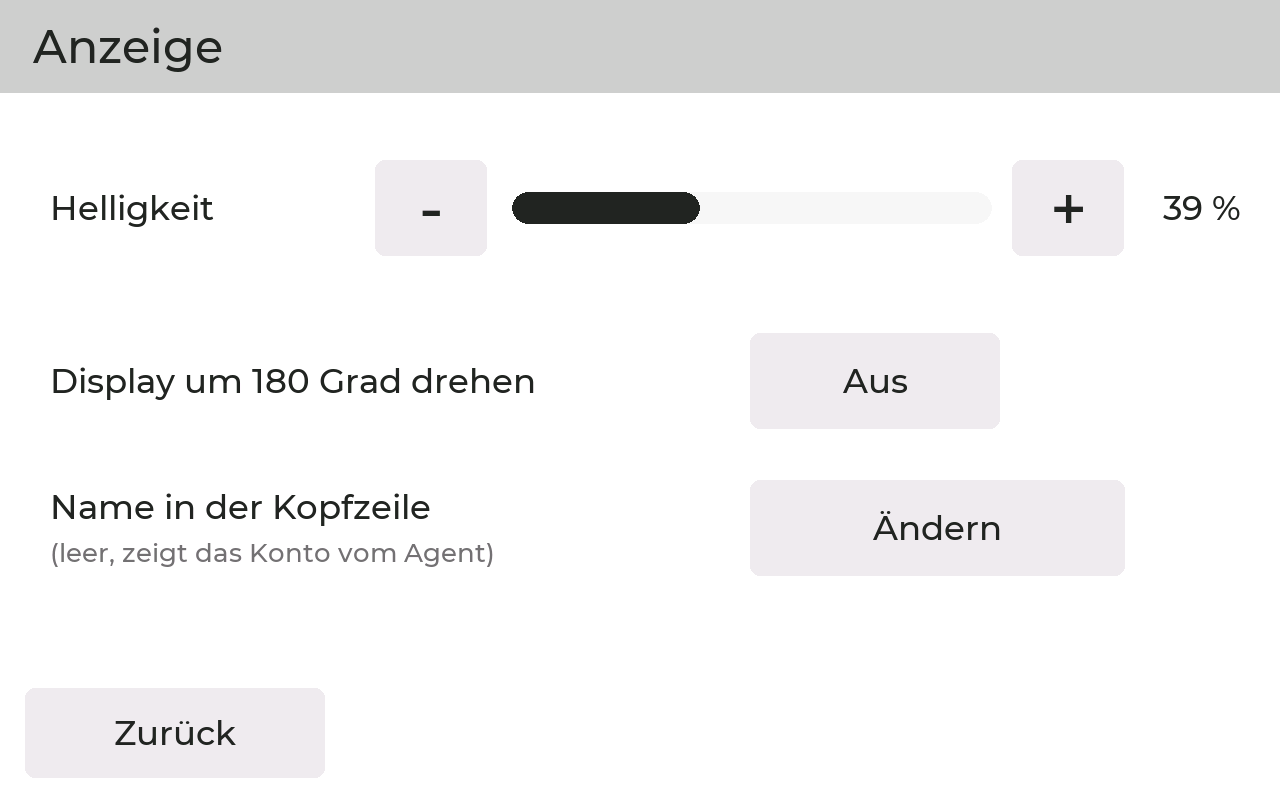
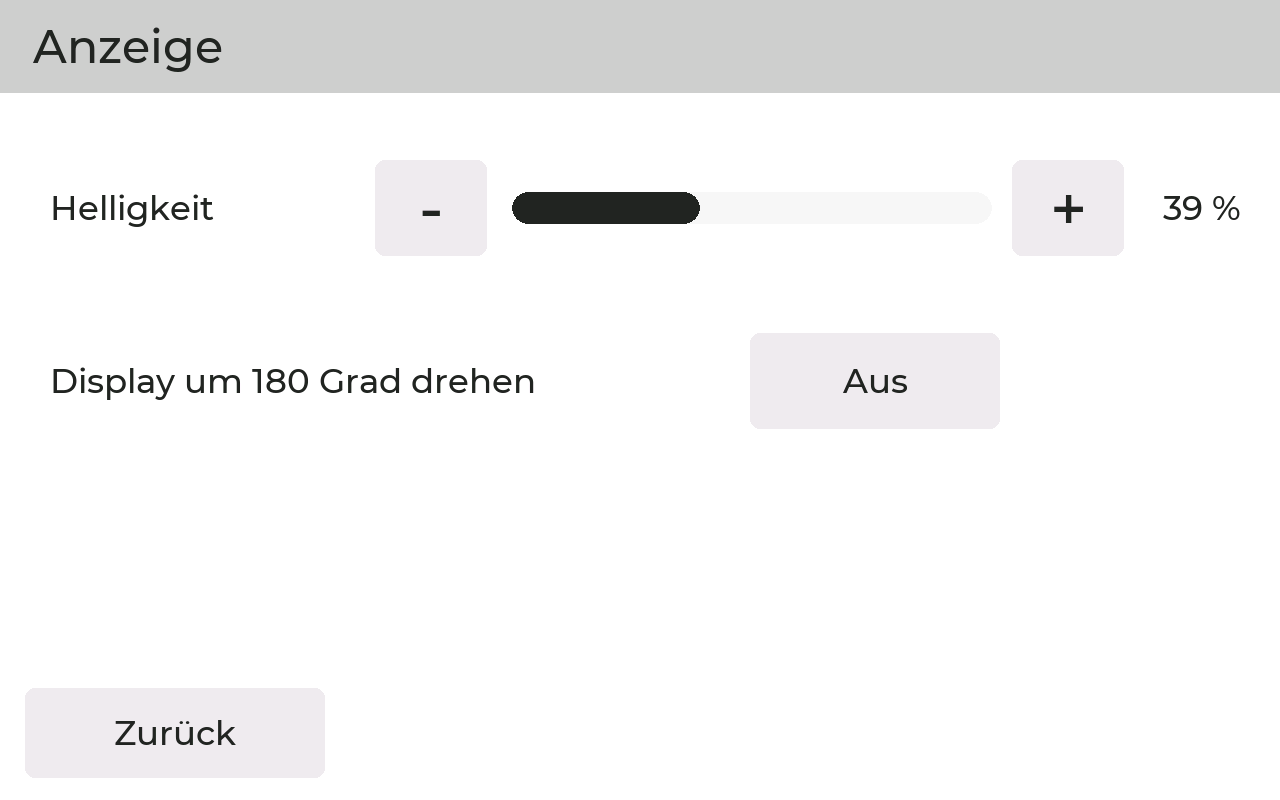
Name in der Kopfzeile unter Microsoft 365, sicheres Flashen
Die Einstellung "Name in der Kopfzeile" gehoert zum Konto und steht im
Menue jetzt unter Microsoft 365 statt unter Anzeige. Doku und
Bildschirmfotos (DE/EN) nachgefuehrt.

USB-Befehl NAME ersetzt den angezeigten Namen bis zum Neustart, ohne
ihn zu speichern. screenshot.py setzt ihn immer, damit auf Bildern nie
ein echter Name steht.

tools/flash.py prueft vor dem Flashen die USB-Seriennummer des
angeschlossenen Displays und flasht nur die passende Variante. Die
falsche Variante startet auf dem anderen Panel nicht.

Changed region(s): [[0.0312, 0.6875, 0.375, 0.7188], [0.0312, 0.625, 0.3438, 0.6562], [0.6875, 0.625, 0.7812, 0.6875]]

diff --git a/firmware/src/menu.cpp b/firmware/src/menu.cpp
@@ -146,14 +146,6 @@ static void drawLang() {
 // ------------------------------------------------------------ Anzeige
 static const Rect R_BR_MINUS = { ux(300), uy(120), ux(90), uy(72) }, R_BR_PLUS = { ux(810), uy(120), ux(90), uy(72) };
 static const Rect R_FLIP = { ux(600), uy(250), ux(200), uy(72) };
-static const Rect R_NAME = { ux(600), uy(360), ux(300), uy(72) };   // Name in der Kopfzeile aendern
-static char nameWork[48];
-
-static void onNameDone(bool ok) {
-  if (!ok) return;
-  ownerName = nameWork;
-  displayApply(true);                            // speichert und zeichnet neu
-}
 static const int BAR_X = ux(410), BAR_W = ux(384);
 
 static void drawBrightness() {
@@ -174,10 +166,6 @@ static void drawDisplay() {
   drawBrightness();
   label(TR("Display um 180 Grad drehen", "Rotate display 180 degrees"), R_FLIP.cy());
   toggle(R_FLIP, flip);
-  label(TR("Name in der Kopfzeile", "Name in the header"), R_NAME.cy() - uy(16));
-  txt(ownerName.length() ? ownerName.c_str() : TR("(leer, zeigt das Konto vom Agent)", "(empty, shows the agent's account)"),
-      ux(40), R_NAME.cy() + uy(18), 20, pDim(), pBg(), middle_left);
-  button(R_NAME, TR("\xC3\x84ndern", "Change"), B_NORMAL);
   button(R_BACK, TR("Zur\xC3\xBC" "ck", "Back"), B_NORMAL);
 }
 
@@ -275,16 +263,31 @@ static void drawWifi() {
 
 // ------------------------------------------------------------ Microsoft 365
 static const char* o365Msg = "";
+// Name in der Kopfzeile (wessen Kalender das Display zeigt), gehoert zum Konto (Oliver, 31.10.2026)
+static const Rect R_NAME = { SCR_W - ux(240), uy(290) - uy(34), ux(220), uy(68) };
+static char nameWork[48];
+
+static void onNameDone(bool ok) {
+  if (!ok) return;
+  ownerName = nameWork;
+  displayApply(true);                            // speichert und zeichnet neu
+}
 
 static void drawO365() {
   header("Microsoft 365");
   kv(TR("Konto", "Account"), account[0] ? account : TR("keins angemeldet", "none signed in"), uy(120));
   kv(TR("Kalender schreiben", "Write calendar"), canWrite ? TR("ja (Buchung m\xC3\xB6glich)", "yes (booking possible)") : TR("nein", "no"), uy(175));
   kv(TR("Verbindung", "Connection"), linked ? TR("Agent verbunden", "agent connected") : TR("kein Agent", "no agent"), uy(230));
+  txt(TR("Name oben", "Name in header"), ux(60), R_NAME.cy(), 26, pDim(), pBg(), middle_left);
+  const char* nm = *ownerShown() ? ownerShown() : TR("(leer, zeigt das Konto)", "(empty, shows the account)");
+  lcd.setFont(smooth(26));
+  txt(nm, ux(380), R_NAME.cy(), lcd.textWidth(nm) > R_NAME.x - ux(400) ? 20 : 26,
+      *ownerShown() ? pInk() : pDim(), pBg(), middle_left);
+  button(R_NAME, TR("\xC3\x84ndern", "Change"), B_NORMAL);
   txt(TR("Die Anmeldung l\xC3\xA4uft \xC3\xBC" "ber den Agenten, Code und Adresse erscheinen hier.",
          "Sign-in runs through the agent, code and address appear here."),
-      SCR_W / 2, uy(320), 20, pDim(), pBg());
-  if (*o365Msg) txt(o365Msg, SCR_W / 2, uy(370), 26, pInk(), pBg());
+      SCR_W / 2, uy(370), 20, pDim(), pBg());
+  if (*o365Msg) txt(o365Msg, SCR_W / 2, uy(420), 26, pInk(), pBg());
   button(R_BACK, TR("Zur\xC3\xBC" "ck", "Back"), B_NORMAL);
   button(R_RIGHT, TR("Neues Konto verbinden", "Connect new account"), !linked ? B_DISABLED : B_PRIMARY, 20);
 }
@@ -441,12 +444,6 @@ static void tapDisplay(int x, int y) {
     drawBrightness();
     return;
   }
-  if (R_NAME.in(x, y)) {                         // Menue schliessen, Tastatur der Buchung nutzen
-    strncpy(nameWork, ownerName.c_str(), sizeof(nameWork) - 1); nameWork[sizeof(nameWork) - 1] = '\0';
-    menuClose();
-    textEntryOpen(TR("Name in der Kopfzeile", "Name in the header"), nameWork, 41, onNameDone);   // 40 Zeichen wie im Webinterface
-    return;
-  }
   if (R_FLIP.in(x, y)) {
     flip = !flip;
     board_set_rotation(flip);
@@ -514,6 +511,12 @@ static void tapWifi(int x, int y) {
 
 static void tapO365(int x, int y) {
   if (R_BACK.in(x, y)) { go(M_MAIN); return; }
+  if (R_NAME.in(x, y)) {                         // Menue schliessen, Tastatur der Buchung nutzen
+    strncpy(nameWork, ownerName.c_str(), sizeof(nameWork) - 1); nameWork[sizeof(nameWork) - 1] = '\0';
+    menuClose();
+    textEntryOpen(TR("Name in der Kopfzeile", "Name in the header"), nameWork, 41, onNameDone);   // 40 Zeichen wie im Webinterface
+    return;
+  }
   if (!R_RIGHT.in(x, y)) return;
   if (!linked) { o365Msg = TR("Kein Agent verbunden.", "No agent connected."); drawO365(); return; }
   menuClose();                                   // Anmeldebildschirm zeigt Code und Adresse

diff --git a/tools/flash.py b/tools/flash.py
@@ -1,0 +1,87 @@
+#!/usr/bin/env python3
+"""
+flash.py - Firmware nur auf das richtige Display flashen
+
+  agent/.venv/bin/python tools/flash.py 7      7"-Variante  (env guition-p4)
+  agent/.venv/bin/python tools/flash.py 10     10"-Variante (env guition-p4-10)
+
+Liest unmittelbar vor dem Flashen die USB-Seriennummer des angeschlossenen Displays und
+schlaegt sie in ~/.config/tally32/displays.json nach, z. B.
+
+  {"12:34:56:78:9A:BC": "7", "AB:CD:EF:01:23:45": "10"}
+
+Passt das Display nicht zur gewuenschten Variante, ist es unbekannt oder haengen mehrere
+Displays am Rechner, wird nicht geflasht. Die falsche Variante startet auf dem anderen
+Panel nicht und das Display ist nur noch ueber den BOOT-Download-Modus erreichbar.
+"""
+import json
+import os
+import subprocess
+import sys
+import time
+
+import serial
+import serial.tools.list_ports
+
+ENVS = {"7": "guition-p4", "10": "guition-p4-10"}
+MAP = os.path.expanduser("~/.config/tally32/displays.json")
+PIO = os.path.expanduser("~/.pio-venv/bin/pio")
+FW = os.path.join(os.path.dirname(os.path.abspath(__file__)), "..", "firmware")
+ESPRESSIF_VID = 0x303A
+
+
+def displays():
+    return [p for p in serial.tools.list_ports.comports() if p.vid == ESPRESSIF_VID]
+
+
+def main():
+    if len(sys.argv) != 2 or sys.argv[1] not in ENVS:
+        sys.exit(__doc__)
+    want = sys.argv[1]
+    try:
+        known = {k.upper(): v for k, v in json.load(open(MAP)).items()}
+    except (OSError, ValueError) as e:
+        sys.exit(f"Zuordnung {MAP} fehlt oder ist ungueltig ({e}).")
+
+    found = displays()
+    if len(found) != 1:
+        sys.exit(f"Genau ein Display anschliessen (gefunden: {len(found)}). Nicht geflasht.")
+    port = found[0]
+    sn = (port.serial_number or "").upper()
+    have = known.get(sn)
+    if have is None:
+        sys.exit(f"Unbekanntes Display {sn} an {port.device}. In {MAP} eintragen. Nicht geflasht.")
+    if have != want:
+        sys.exit(f"An {port.device} haengt das {have}\"-Display ({sn}), gewuenscht ist {want}\". Nicht geflasht.")
+
+    print(f"{want}\"-Display {sn} an {port.device}, flashe {ENVS[want]} ...", flush=True)
+    r = subprocess.run([PIO, "run", "-d", FW, "-e", ENVS[want], "-t", "upload", "--upload-port", port.device])
+    if r.returncode:
+        sys.exit("Flashen fehlgeschlagen.")
+
+    # Danach muss dasselbe Display mit der Firmware antworten
+    deadline = time.time() + 30
+    while time.time() < deadline:
+        now = [p for p in displays() if (p.serial_number or "").upper() == sn]
+        if now:
+            try:
+                s = serial.Serial()
+                s.port, s.baudrate, s.timeout, s.dtr, s.rts = now[0].device, 115200, 1, False, False
+                s.open()
+                time.sleep(4)                     # Oeffnen startet das Display neu
+                s.reset_input_buffer()
+                s.write(b"HELLO\n")
+                t = time.time()
+                while time.time() - t < 3:
+                    if s.readline().startswith(b"TALLY32"):
+                        print("OK: Display laeuft mit der neuen Firmware.")
+                        return
+                s.close()
+            except Exception:  # noqa: BLE001 - Display meldet sich beim Neustart kurz ab
+                pass
+        time.sleep(2)
+    sys.exit("Display antwortet nach dem Flashen nicht. Am Geraet pruefen.")
+
+
+if __name__ == "__main__":
+    main()

diff --git a/firmware/src/main.cpp b/firmware/src/main.cpp
@@ -340,6 +340,10 @@ static void drawConnIcon(bool on, int xRight, int y0) {
 // bis zum Neustart. Ein unmoegliches Datum kennzeichnet Bilder als Demo-Bilder.
 static char shotDate[12] = "";
 const char* shotDateText() { return shotDate; }
+// Ebenso der Name (USB "NAME jasmin.muster@mail.ch"): nur im Speicher, nie gespeichert, damit
+// auf Bildschirmfotos kein echter Name steht.
+static char shotName[48] = "";
+const char* ownerShown() { return shotName[0] ? shotName : ownerName.c_str(); }
 
 // Kopfzeile: Logo, Datum, Name und Uhrzeit
 static void drawHeader() {
@@ -354,7 +358,7 @@ static void drawHeader() {
   lcd.setFont(smooth(26));
   const int tx = SCR_W - ux(24), tw = lcd.textWidth("00:00");
   sTxt(cur.clock[0] ? cur.clock : "--:--", tx, BAN_H / 2, 26, fg, bg, middle_right);
-  const char* name = ownerName.length() ? ownerName.c_str() : account;
+  const char* name = *ownerShown() ? ownerShown() : account;
   if (*name) {
     const int nx = SPLIT + ux(90), w = tx - tw - ux(36) - nx;
     sTxt(name, nx, BAN_H / 2, fitSize(name, w, 26, 20), fg, bg, middle_left);
@@ -745,6 +749,12 @@ static void handleLine(char* line) {
   }
   if (strncmp(line, "DATE ", 5) == 0) {          // Diagnose: Datum fuer Bildschirmfotos ("DATE -" = echtes)
     field(shotDate, sizeof(shotDate), line + 5);
+    uiVersion++;
+    Serial.println("OK");
+    return;
+  }
+  if (strncmp(line, "NAME ", 5) == 0) {          // Diagnose: Name fuer Bildschirmfotos ("NAME -" = echter)
+    field(shotName, sizeof(shotName), line + 5);
     uiVersion++;
     Serial.println("OK");
     return;

diff --git a/tools/screenshot.py b/tools/screenshot.py
@@ -113,6 +113,7 @@ def demo(s, outdir):
     os.makedirs(outdir, exist_ok=True)
     s.write(f"DATE {DATE}\n".encode())
     s.write(f"AC {NAME}\n".encode())           # Kopfzeile nicht leer, solange kein Name gesetzt ist
+    s.write(f"NAME {NAME}\n".encode())         # ersetzt einen gesetzten echten Namen bis zum Neustart
     s.write(b"SET demo 1\n")
     time.sleep(0.5)
     seen, last, n, t0 = set(), None, 0, time.time()

diff --git a/firmware/src/state.h b/firmware/src/state.h
@@ -40,6 +40,7 @@ extern uint8_t brightness;
 extern bool flip;
 extern uint8_t uiLang;           // Sprache der Oberflaeche: 0 Deutsch, 1 English (NVS "lang")
 extern String ownerName;        // Name der Person im Banner oben (leer = Konto vom Agent)
+const char* ownerShown();       // angezeigter Name: Ersatz fuer Bildschirmfotos (USB NAME) oder ownerName
 void displayLoad();
 void displayApply(bool save);
 

diff --git a/README.md b/README.md
@@ -115,11 +115,11 @@ nach 60 Sekunden ohne Berührung schliesst es sich.
 | Kachel | Inhalt |
 |---|---|
 | Demomodus | starten bzw. beenden, das Menü schliesst sich dabei |
-| Anzeige | Helligkeit, Display um 180° drehen, Name in der Kopfzeile |
+| Anzeige | Helligkeit, Display um 180° drehen |
 | Sprache / Language | Deutsch oder English für Display, Webinterface und die Texte des Agenten |
 | Farben | sechs Farben pro Zustand, jede mit Helligkeitswert in Prozent |
 | Terminbuchung | Knopf ein/aus, Zeitfenster, Wochentage, Mittagspause |
-| Microsoft 365 | angemeldetes Konto, neues Konto verbinden (über den Agent) |
+| Microsoft 365 | angemeldetes Konto, Name in der Kopfzeile, neues Konto verbinden (über den Agent) |
 | WLAN | Einrichtungs-WLAN ein/aus, Netzname, Passwort, Adresse |
 | Info | Version, Display, Verbindung, Konto, Einrichtungs-WLAN mit Adresse, Echtzeituhr, letzter Neustart |
 | PIN ändern | neuen PIN zweimal eingeben |
@@ -170,6 +170,12 @@ cd firmware && pio run -e guition-p4 -t upload --upload-port /dev/cu.usbmodem312
 ```
 
 Für das 10"-Display (GUITION JC8012P4A1C) die Umgebung `guition-p4-10`.
+
+Die falsche Variante startet auf dem anderen Display nicht, es bleibt dunkel und ist nur noch
+über den Download-Modus erreichbar (BOOT gedrückt halten beim Einstecken, dann richtig flashen).
+Wer beide Displays hat, flasht sicherer mit `tools/flash.py 7` bzw. `tools/flash.py 10`: Das
+Skript prüft vorher die USB-Seriennummer des angeschlossenen Displays (Zuordnung in
+`~/.config/tally32/displays.json`, z. B. `{"12:34:56:78:9A:BC": "7"}`) und flasht nur, wenn sie passt.
 
 Unter Windows ist der Port das "Serielle USB-Gerät" (z. B. `COM6`). Den Agenten
 vorher anhalten, er hält den Port offen.
@@ -455,11 +461,11 @@ closes.
 | Tile | Content |
 |---|---|
 | Demo mode | start or stop, the menu closes |
-| Display | brightness, rotate display by 180°, name in the header |
+| Display | brightness, rotate display by 180° |
 | Sprache / Language | Deutsch or English for the display, the web interface and the texts sent by the agent |
 | Colours | six colours per state, each with a brightness value in percent |
 | Meeting booking | button on/off, time window, weekdays, lunch break |
-| Microsoft 365 | signed-in account, connect new account (via the agent) |
+| Microsoft 365 | signed-in account, name in the header, connect new account (via the agent) |
 | Wi-Fi | setup Wi-Fi on/off, network name, password, address |
 | Info | version, display, connection, account, setup Wi-Fi with address, real-time clock, last restart |
 | Change PIN | enter the new PIN twice |
@@ -506,6 +512,12 @@ cd firmware && pio run -e guition-p4 -t upload --upload-port /dev/cu.usbmodem312
 ```
 
 For the 10" display (GUITION JC8012P4A1C) use the environment `guition-p4-10`.
+
+The wrong variant does not start on the other display. It stays dark and can only be reached in
+download mode (hold BOOT while plugging in, then flash the right one). With both displays, flash
+more safely with `tools/flash.py 7` or `tools/flash.py 10`: the script first checks the USB serial
+number of the connected display (mapping in `~/.config/tally32/displays.json`, e.g.
+`{"12:34:56:78:9A:BC": "7"}`) and only flashes if it matches.
 
 On Windows the port is the "USB Serial Device" (e.g. `COM6`). Stop the agent first, it keeps the
 port open.

diff --git a/docs/Anleitung.md b/docs/Anleitung.md
@@ -286,11 +286,11 @@ nach 60 Sekunden ohne Berührung schliesst es sich von selbst.
 | Kachel | Inhalt |
 |---|---|
 | Demomodus | alle Zustände der Reihe nach vorführen, siehe [Abschnitt 8](#8-ohne-notebook-bildschirmschoner-demomodus) |
-| Anzeige | Helligkeit, Display um 180 Grad drehen, Name in der Kopfzeile |
+| Anzeige | Helligkeit, Display um 180 Grad drehen |
 | Sprache / Language | Deutsch oder English für Display, Webinterface und die Texte des Agenten |
 | Farben | Farbe des Balkens je Zustand |
 | Terminbuchung | Knopf ein oder aus, Zeitfenster, Wochentage, Mittagspause |
-| Microsoft 365 | angemeldetes Konto, neues Konto verbinden |
+| Microsoft 365 | angemeldetes Konto, Name in der Kopfzeile, neues Konto verbinden |
 | WLAN | Einrichtungs-WLAN für das Webinterface ein oder aus |
 | Info | Version, Display, Verbindung, Konto, Einrichtungs-WLAN, Uhr, letzter Neustart |
 | PIN ändern | neuen PIN zweimal eingeben |
@@ -301,8 +301,6 @@ nach 60 Sekunden ohne Berührung schliesst es sich von selbst.
 
 - **Helligkeit** mit Minus und Plus.
 - **Display um 180 Grad drehen**, zum Beispiel wenn das Kabel oben besser passt.
-- **Name in der Kopfzeile:** Ist er leer, steht dort das angemeldete Microsoft-Konto. Mit "Ändern"
-  einen eigenen Namen eintippen, zum Beispiel "Jasmin Muster".
 
 ### Sprache / Language
 
@@ -338,6 +336,9 @@ Auslieferungszustand wieder her.
 Zeigt das angemeldete Konto, ob der Agent in den Kalender schreiben darf ("Kalender schreiben", nötig
 für die Buchung) und ob der Agent verbunden ist. "Neues Konto verbinden" startet die Anmeldung wie in
 [Abschnitt 5.4](#54-bei-microsoft-365-anmelden) und ersetzt das bisherige Konto.
+
+**Name oben** ist der Name in der Kopfzeile über der rechten Fläche. Ist er leer, steht dort das
+angemeldete Microsoft-Konto. Mit "Ändern" einen eigenen Namen eintippen, zum Beispiel "Jasmin Muster".
 
 ### WLAN (Einrichtungs-WLAN)
 

diff --git a/docs/Manual.md b/docs/Manual.md
@@ -287,11 +287,11 @@ one minute. After 60 seconds without a touch it closes by itself.
 | Tile | Content |
 |---|---|
 | Demo mode | show all states one after the other, see [section 8](#8-without-notebook-screen-saver-demo-mode) |
-| Display | brightness, rotate display by 180 degrees, name in the header |
+| Display | brightness, rotate display by 180 degrees |
 | Sprache / Language | Deutsch or English for the display, the web interface and the texts sent by the agent |
 | Colours | colour of the bar per state |
 | Meeting booking | button on or off, time window, weekdays, lunch break |
-| Microsoft 365 | signed-in account, connect new account |
+| Microsoft 365 | signed-in account, name in the header, connect new account |
 | Wi-Fi | setup Wi-Fi for the web interface on or off |
 | Info | version, display, connection, account, setup Wi-Fi, clock, last restart |
 | Change PIN | enter the new PIN twice |
@@ -302,8 +302,6 @@ one minute. After 60 seconds without a touch it closes by itself.
 
 - **Brightness** with minus and plus.
 - **Rotate display by 180 degrees**, for example if the cable fits better at the top.
-- **Name in the header:** if it is empty, the signed-in Microsoft account is shown. Use "Change" to
-  type your own name, for example "Jasmin Muster".
 
 ### Sprache / Language
 
@@ -335,6 +333,9 @@ the states also differ clearly in brightness. "Default colours" restores the fac
 Shows the signed-in account, whether the agent may write to the calendar ("Write calendar", needed
 for booking) and whether the agent is connected. "Connect new account" starts the sign-in as in
 [section 5.4](#54-sign-in-to-microsoft-365) and replaces the previous account.
+
+**Name in header** is the name in the header above the right side. If it is empty, the signed-in
+Microsoft account is shown. Use "Change" to type your own name, for example "Jasmin Muster".
 
 ### Wi-Fi (setup Wi-Fi)
 
